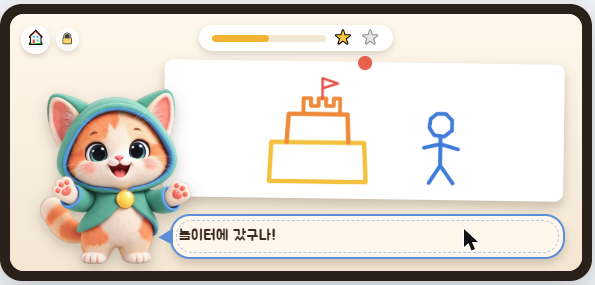
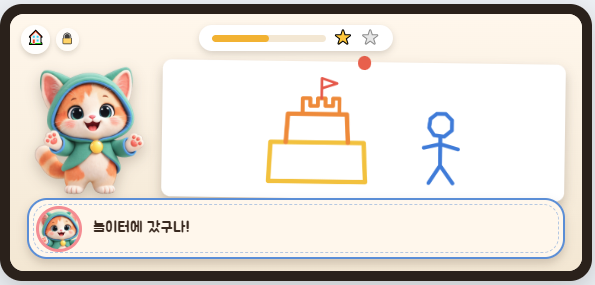
docs: D3 uses the usual narration band; Otto and the pinned drawing share one height
Claude-Session: https://claude.ai/code/session_01SjSBQ7DtDnJYD2PENH3ma9

diff --git a/docs/일기모드_UI.html b/docs/일기모드_UI.html
@@ -59,15 +59,11 @@ button:focus-visible{outline:2px solid var(--accent);outline-offset:2px}
 .coin{position:absolute;top:2cqw;right:2cqw;background:#fff;border-radius:3cqw;padding:.6cqw 1.6cqw;font-size:1.9cqw;display:flex;gap:.6cqw;align-items:center;box-shadow:0 .5cqw 1cqw rgba(58,42,32,.18);z-index:5}
 .coin b{width:2.6cqw;height:2.6cqw;border-radius:50%;background:var(--coral);display:inline-block}
 
-/* D3: Otto beside the page, the line in a speech bubble (placeholder — later Otto lies down drawing / writing) */
-.d3-otto{position:absolute;left:2cqw;bottom:0;height:33cqw;filter:drop-shadow(0 1cqw 1.2cqw rgba(58,42,32,.25));transform-origin:50% 100%;animation:bob 2.6s ease-in-out infinite;pointer-events:none}
+/* D3: Otto beside the pinned drawing, same height; the line in the usual band (placeholder poses — later Otto lies down drawing / writing) */
+.d3-otto{position:absolute;left:2cqw;top:8.5cqw;height:24cqw;filter:drop-shadow(0 1cqw 1.2cqw rgba(58,42,32,.25));transform-origin:50% 100%;animation:bob 2.6s ease-in-out infinite;pointer-events:none}
 .d3-otto.hop{animation:hop .45s ease-out}
-.frame.asking .band{left:28cqw;right:3cqw;bottom:2cqw;min-height:8cqw;animation:pop .3s ease-out}
-.frame.asking .band::before{content:"";position:absolute;left:-2.4cqw;top:50%;width:2.6cqw;height:3cqw;margin-top:-1.5cqw;background:var(--sky);clip-path:polygon(100% 0,0 55%,100% 100%)}
-.frame.asking .band .face{display:none}
-.frame.asking .band .line{font-size:2.7cqw}
-.frame.asking .echo{display:none}   /* Otto's bubble already says it */
-.frame.asking .page-card{left:27cqw;right:3cqw;top:8.5cqw;bottom:12.5cqw;width:auto;aspect-ratio:auto;padding:1.4cqw;transform:rotate(.8deg)}   /* fills the space between Otto and the right edge */
+.frame.asking .echo{display:none}   /* the band already says it */
+.frame.asking .page-card{left:24.5cqw;right:3cqw;top:8.5cqw;height:24cqw;bottom:auto;width:auto;aspect-ratio:auto;padding:1.4cqw;transform:rotate(.8deg)}   /* fills the space between Otto and the right edge */
 .frame.asking .page-card img{position:absolute;left:1.4cqw;top:1.4cqw;width:calc(100% - 2.8cqw);height:calc(100% - 2.8cqw)}
 /* narration band */
 .frame.drawing .band{left:1.2cqw;right:auto;bottom:1.2cqw;max-width:62cqw;min-height:0;gap:1.2cqw;padding:.6cqw 2cqw .6cqw .6cqw;border-width:.4cqw;border-radius:4cqw;cursor:pointer;transition:max-width .35s ease, padding .35s ease, opacity .35s ease;overflow:hidden}

diff --git a/docs/review/일기모드_0929/README.md b/docs/review/일기모드_0929/README.md
@@ -54,8 +54,8 @@
 | `51_펑_연기와_동시에_바뀜` | 연기가 터지는 **그 순간에 모양이 바뀐다**(전에는 연기가 먼저 터지고 0.36초 뒤에 바뀜). 연기가 가장 클 때 이미 새 그림이 출렁이는 중 |
 | `52_연기_음영_맨앞` | 연기 구름에 **음영**(흰 윗면 → 따뜻한 회색 아랫면, 안쪽 그림자)을 넣어 흰 화이트보드 위에서도 보인다. **연기가 그림보다 앞**에 온다 |
 | `53_몽글연기_터짐` ~ `55_몽글연기_줄어들며_사라짐` | 동그라미 연기를 **만화 연기 구름**으로: 둥근 덩어리 여러 개가 붙은 모양 · 갈색 테두리 하나 · 왼쪽 위는 밝고 아래는 그늘 · 반짝 하이라이트. 날아가는 동안 **몽글몽글 끓듯이** 흔들리고, 흐려지는 대신 **작아지며 사라진다**. 가운데 큰 구름 하나 + 둘레 12개, 모양 5가지 |
-| `56_D3_오또_말풍선_듣기` · `57_D3_다음질문` | 다 그린 뒤 빈 칸 묻기(D3): 왼쪽 나레이션 칸 대신 **오또 전신 + 말풍선**. 물을 때는 `listen` 자세, 되받을 때는 `talk` 자세로 바뀌며 통 뛴다. 오른쪽은 아이 그림 카드. ⚠ **임시 자세** — 나중에 엎드려 그림 그리는 · 일기 쓰는 오또로 바꾼다 |
-| `58_D3_그림카드_크게` · `59_D3_되받기_talk자세` | 말풍선은 **아래쪽 띠**(예전 나레이션 칸 모양)로, 꼬리가 오또를 가리킨다. 핀 꽂힌 그림 카드는 **오또 바로 옆부터 오른쪽 끝까지** 채운다. 카드 속 그림은 그린 부분만 잘라 꽉 차게 |
+| `56_D3_오또_말풍선_듣기` · `57_D3_다음질문` | (첫 시도 — 58 · 59로 바뀜) 다 그린 뒤 빈 칸 묻기(D3): 왼쪽 나레이션 칸 대신 **오또 전신 + 말풍선**. 물을 때는 `listen` 자세, 되받을 때는 `talk` 자세로 바뀌며 통 뛴다. 오른쪽은 아이 그림 카드. ⚠ **임시 자세** — 나중에 엎드려 그림 그리는 · 일기 쓰는 오또로 바꾼다 |
+| `58_D3_그림카드_크게` · `59_D3_되받기_talk자세` | 대사는 **다른 화면과 같은 아래 나레이션 칸**. 그 위에 오또와 핀 꽂힌 그림 카드가 **같은 높이**로 나란히, 카드는 오또 옆부터 오른쪽 끝까지. 카드 속 그림은 그린 부분만 잘라 꽉 차게 |
 | `47_D5_그림칸_맞춤` | 화이트보드가 3:1보다 높아져서, 그림일기의 3:1 그림 칸에는 **그린 부분만 잘라 같은 비율로** 맞춰 넣는다(찌그러짐 없음). 퍼즐 · 표지도 같은 방식 |
 | `참고_자동입력_글자깨짐` | 자동 입력 도구가 긴 한글을 망가뜨린 경우("쩩쩩", "뛰"에서 끊김). **앱 문제 아님**. 이후 대답은 입력 칸에 값을 넣는 방식으로 진행 |
 
